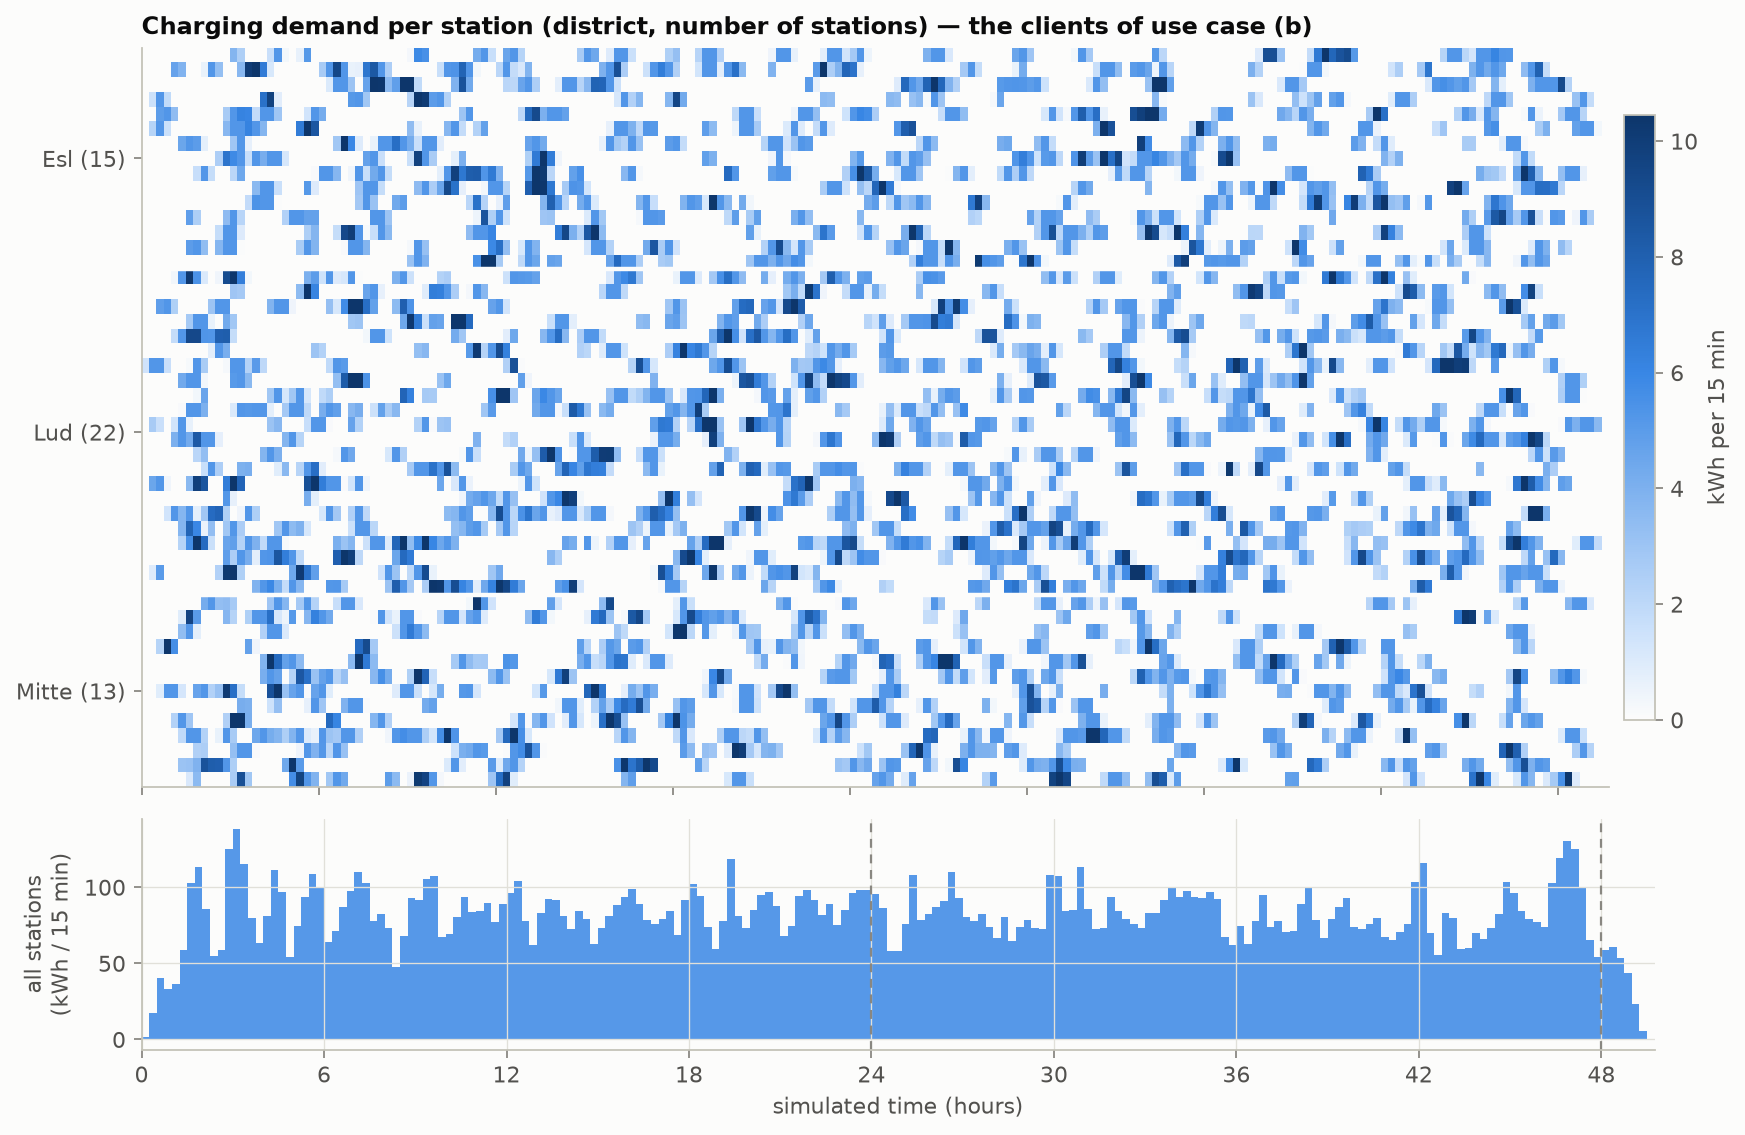
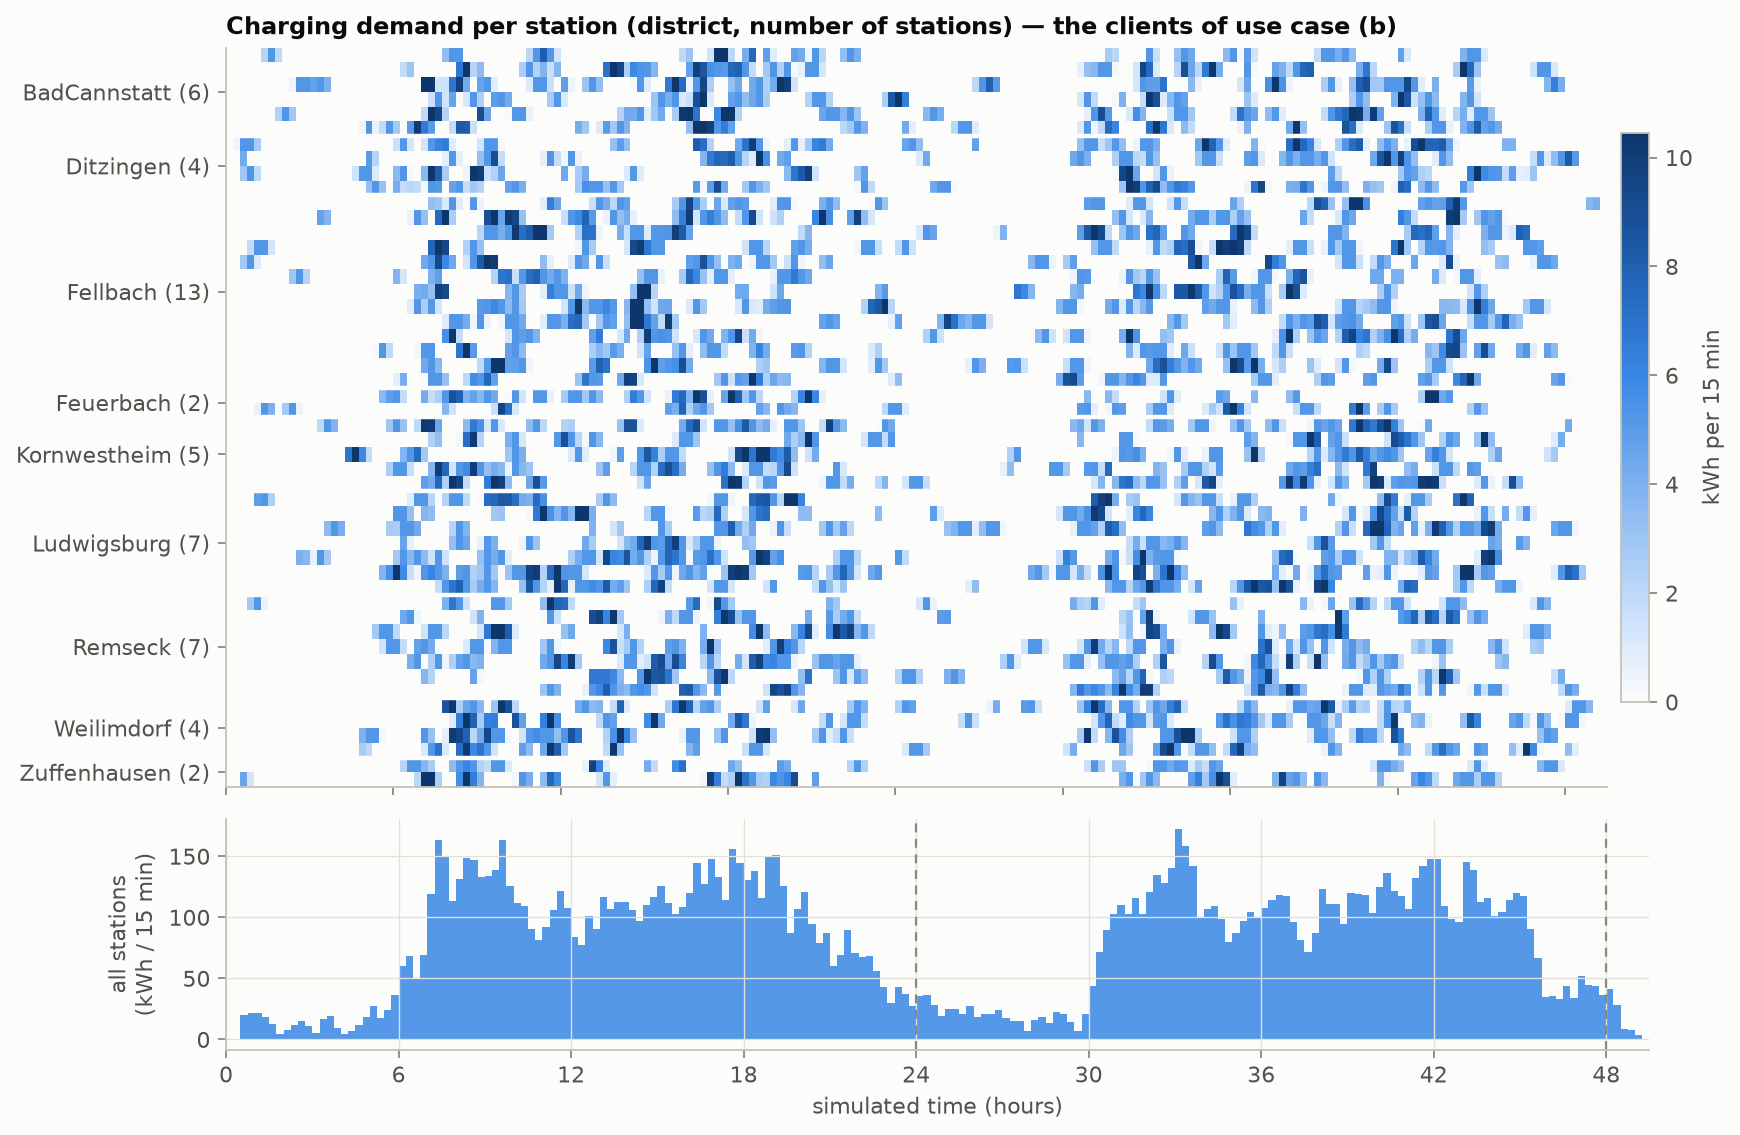
Add charging-station results, figures and fleet animation
- Use case (b) results on the rebuilt scenario (daily profile, in-area
  station names): demand heatmap, per-station error, findings in README
- Fleet animation (07:00-09:00, 8.8 MB) rendered headless from SUMO
- summarize.py skips configurations not run for a use case
- render.py --dpi to keep the GIF small

diff --git a/scenario/render.py b/scenario/render.py
@@ -95,6 +95,7 @@ def main() -> None:
     p.add_argument("--end", type=int, default=9 * 3600)
     p.add_argument("--period", type=int, default=30, help="simulated seconds per frame")
     p.add_argument("--fps", type=int, default=12)
+    p.add_argument("--dpi", type=int, default=65, help="lower keeps the GIF small enough for a README")
     args = p.parse_args()
 
     if shutil.which("sumo") is None:
@@ -106,7 +107,7 @@ def main() -> None:
     frames = record(args.data_dir, args.begin, args.end, args.period)
     times = list(frames)
 
-    fig, ax = plt.subplots(figsize=(7, 7), dpi=90)
+    fig, ax = plt.subplots(figsize=(7, 7), dpi=args.dpi)
     fig.patch.set_facecolor("#111418")
     ax.set_facecolor("#111418")
     ax.add_collection(LineCollection(roads, colors="#3a4048", linewidths=0.3))

diff --git a/scripts/summarize.py b/scripts/summarize.py
@@ -50,7 +50,8 @@ def section_main(kind: str, prefix: str, unit: str) -> list[str]:
         (f"{prefix}-fedavg-e5", "FedAvg, 5 local epochs", "global model"),
     ]:
         run = load(name)
-        lines.append(row(label, stats(final_clients(run)) if run else None, note))
+        if run:  # not every configuration is run for every use case
+            lines.append(row(label, stats(final_clients(run)), note))
     for name in (f"{prefix}-fedavg-e5-ft", f"{prefix}-fedavg-ft"):
         run = load(name)
         if not run:

diff --git a/README.md b/README.md
@@ -9,9 +9,7 @@ This is **v2** of the code from my master thesis,
 which Flower features on its [automotive page](https://flower.ai/industries/automotive).
 The original code is preserved unchanged at tag [`v1.0-thesis`](../../tree/v1.0-thesis).
 
-<!-- fleet animation: added once rendered
 ![Simulated fleet: cars coloured by battery class, white rings while charging, grey triangles are charging stations](docs/media/fleet.gif)
--->
 
 All data is **simulated** with [SUMO](https://eclipse.dev/sumo/) on OpenStreetMap roads. No real vehicle data is used.
 
@@ -92,6 +90,22 @@ trip lengths make the amount of data per client vary by more than 10× (right).
 | 1.0 | −0.22 | 12 (26) |
 | 2.0 | −0.41 | 4 (12) |
 
+### Use case (b): charging-station demand
+
+![Energy delivered per station and 15-minute slot over two simulated days, grouped by area, with the fleet total below](docs/media/cs_demand.png)
+
+Demand follows the daily traffic profile (quiet nights, morning and evening peaks) and differs strongly
+between areas, so the 50 stations are non-IID too.
+
+| 50 stations, held-out data | Median R² | Median error per 15-min slot |
+|---|---|---|
+| Centralized (all data pooled; not private) | 0.50 | 1,257 Wh |
+| **FedAvg, global model** | **0.43** | **1,432 Wh** |
+| FedAvg + local fine-tuning | 0.38 | 1,455 Wh (better than local-only for 80% of stations) |
+| Local only | 0.38 | 1,548 Wh |
+
+![Forecast error per charging station for local-only, centralized and personalized FL](docs/media/cs_per_station.png)
+
 ### What the results say
 
 - **A shared global model alone is not enough for a non-IID fleet.** FedAvg's global model trails each
@@ -111,6 +125,11 @@ trip lengths make the amount of data per client vary by more than 10× (right).
   only slows training. (v1 claimed it "outperforms FedAvg"; it was never compared.)
 - **Privacy is expensive at this data size.** Each car has a few hundred training windows. Single-digit
   ε needs σ ≥ 2, and by then the model is worse than predicting the mean.
+- **Personalization is not automatically better.** For charging stations the plain global FedAvg model
+  wins (1,432 vs 1,455 Wh for the fine-tuned one): each station has only ~130 training windows, so
+  fine-tuning overfits, while the EVs have more data each and far more heterogeneous physics.
+- **Station demand is only partly predictable from the last hour.** Arrivals are random; even the
+  centralized model reaches a median R² of 0.50. Time-of-day features are the obvious next step.
 
 ## v1 → v2: what changed and why
 
@@ -123,7 +142,7 @@ and [`tests/test_v1_regressions.py`](tests/test_v1_regressions.py) pins the fixe
 | **EV task** | Target (remaining capacity) was close to a linear function of an input (cumulative energy); "LSTM" saw sequences of length 1. | Real 60-step sequences; no cumulative input; the future energy is the target, never an input. |
 | **Charging-station evaluation** | Evaluated on the full series, training part included. | Chronological split with a gap; only the held-out part is scored. |
 | **Charging-station energy** | Summed `partialCharge`, a running total per session, which overcounts. | Per-step `energyCharged`. |
-| **Charging-station data** | Cars only charged while driving over a 10 m station (~1 s per pass). | Half of the trips detour to a charger and park there for 10–45 min (off the lane, so they don't block traffic). |
+| **Charging-station data** | Cars only charged while driving over a 10 m station (~1 s per pass). | Half of the trips detour to a charger and park there for 10–45 min (off the lane, so they don't block traffic); departures follow a daily profile with rush hours; stations are named after places inside the simulated area. |
 | **Baselines** | Local only. | Local and centralized, on identical splits. |
 | **Fault tolerance** | Failures came from an `UnboundLocalError`; never compared with FedAvg. | Explicit failures, seeded dropout injection, head-to-head comparison. |
 | **Aggregate metric** | Sample-weighted mean of per-client R² (one bad client dominates). | Medians and share of clients above a threshold. |

diff --git a/docs/results.md b/docs/results.md
@@ -32,3 +32,12 @@ Generated by `scripts/summarize.py` from `outputs/` (one seed per run; differenc
 | 0.5 | 0.231 | 17.7 | 51.8 | 88.1 |
 | 1.0 | -0.223 | 28.2 | 11.8 | 25.8 |
 | 2.0 | -0.406 | 33.5 | 3.9 | 12.5 |
+
+## Use case (b): charging-station energy per 15 min — 50 stations
+
+| Model | Median R² | Median MAE (Wh per 15 min) | Clients with R² > 0.5 | Notes |
+|---|---|---|---|---|
+| Centralized (all data pooled) | 0.498 | 1256.5 | 48% | upper bound, data leaves the clients |
+| Local only | 0.383 | 1548.2 | 4% | no collaboration |
+| FedAvg, global model | 0.431 | 1432.0 | 16% | same run as next row (5 local epochs) |
+| **FedAvg + local fine-tuning** | 0.379 | 1455.2 | 20% | global model fine-tuned locally; beats local-only for 80% of clients |
